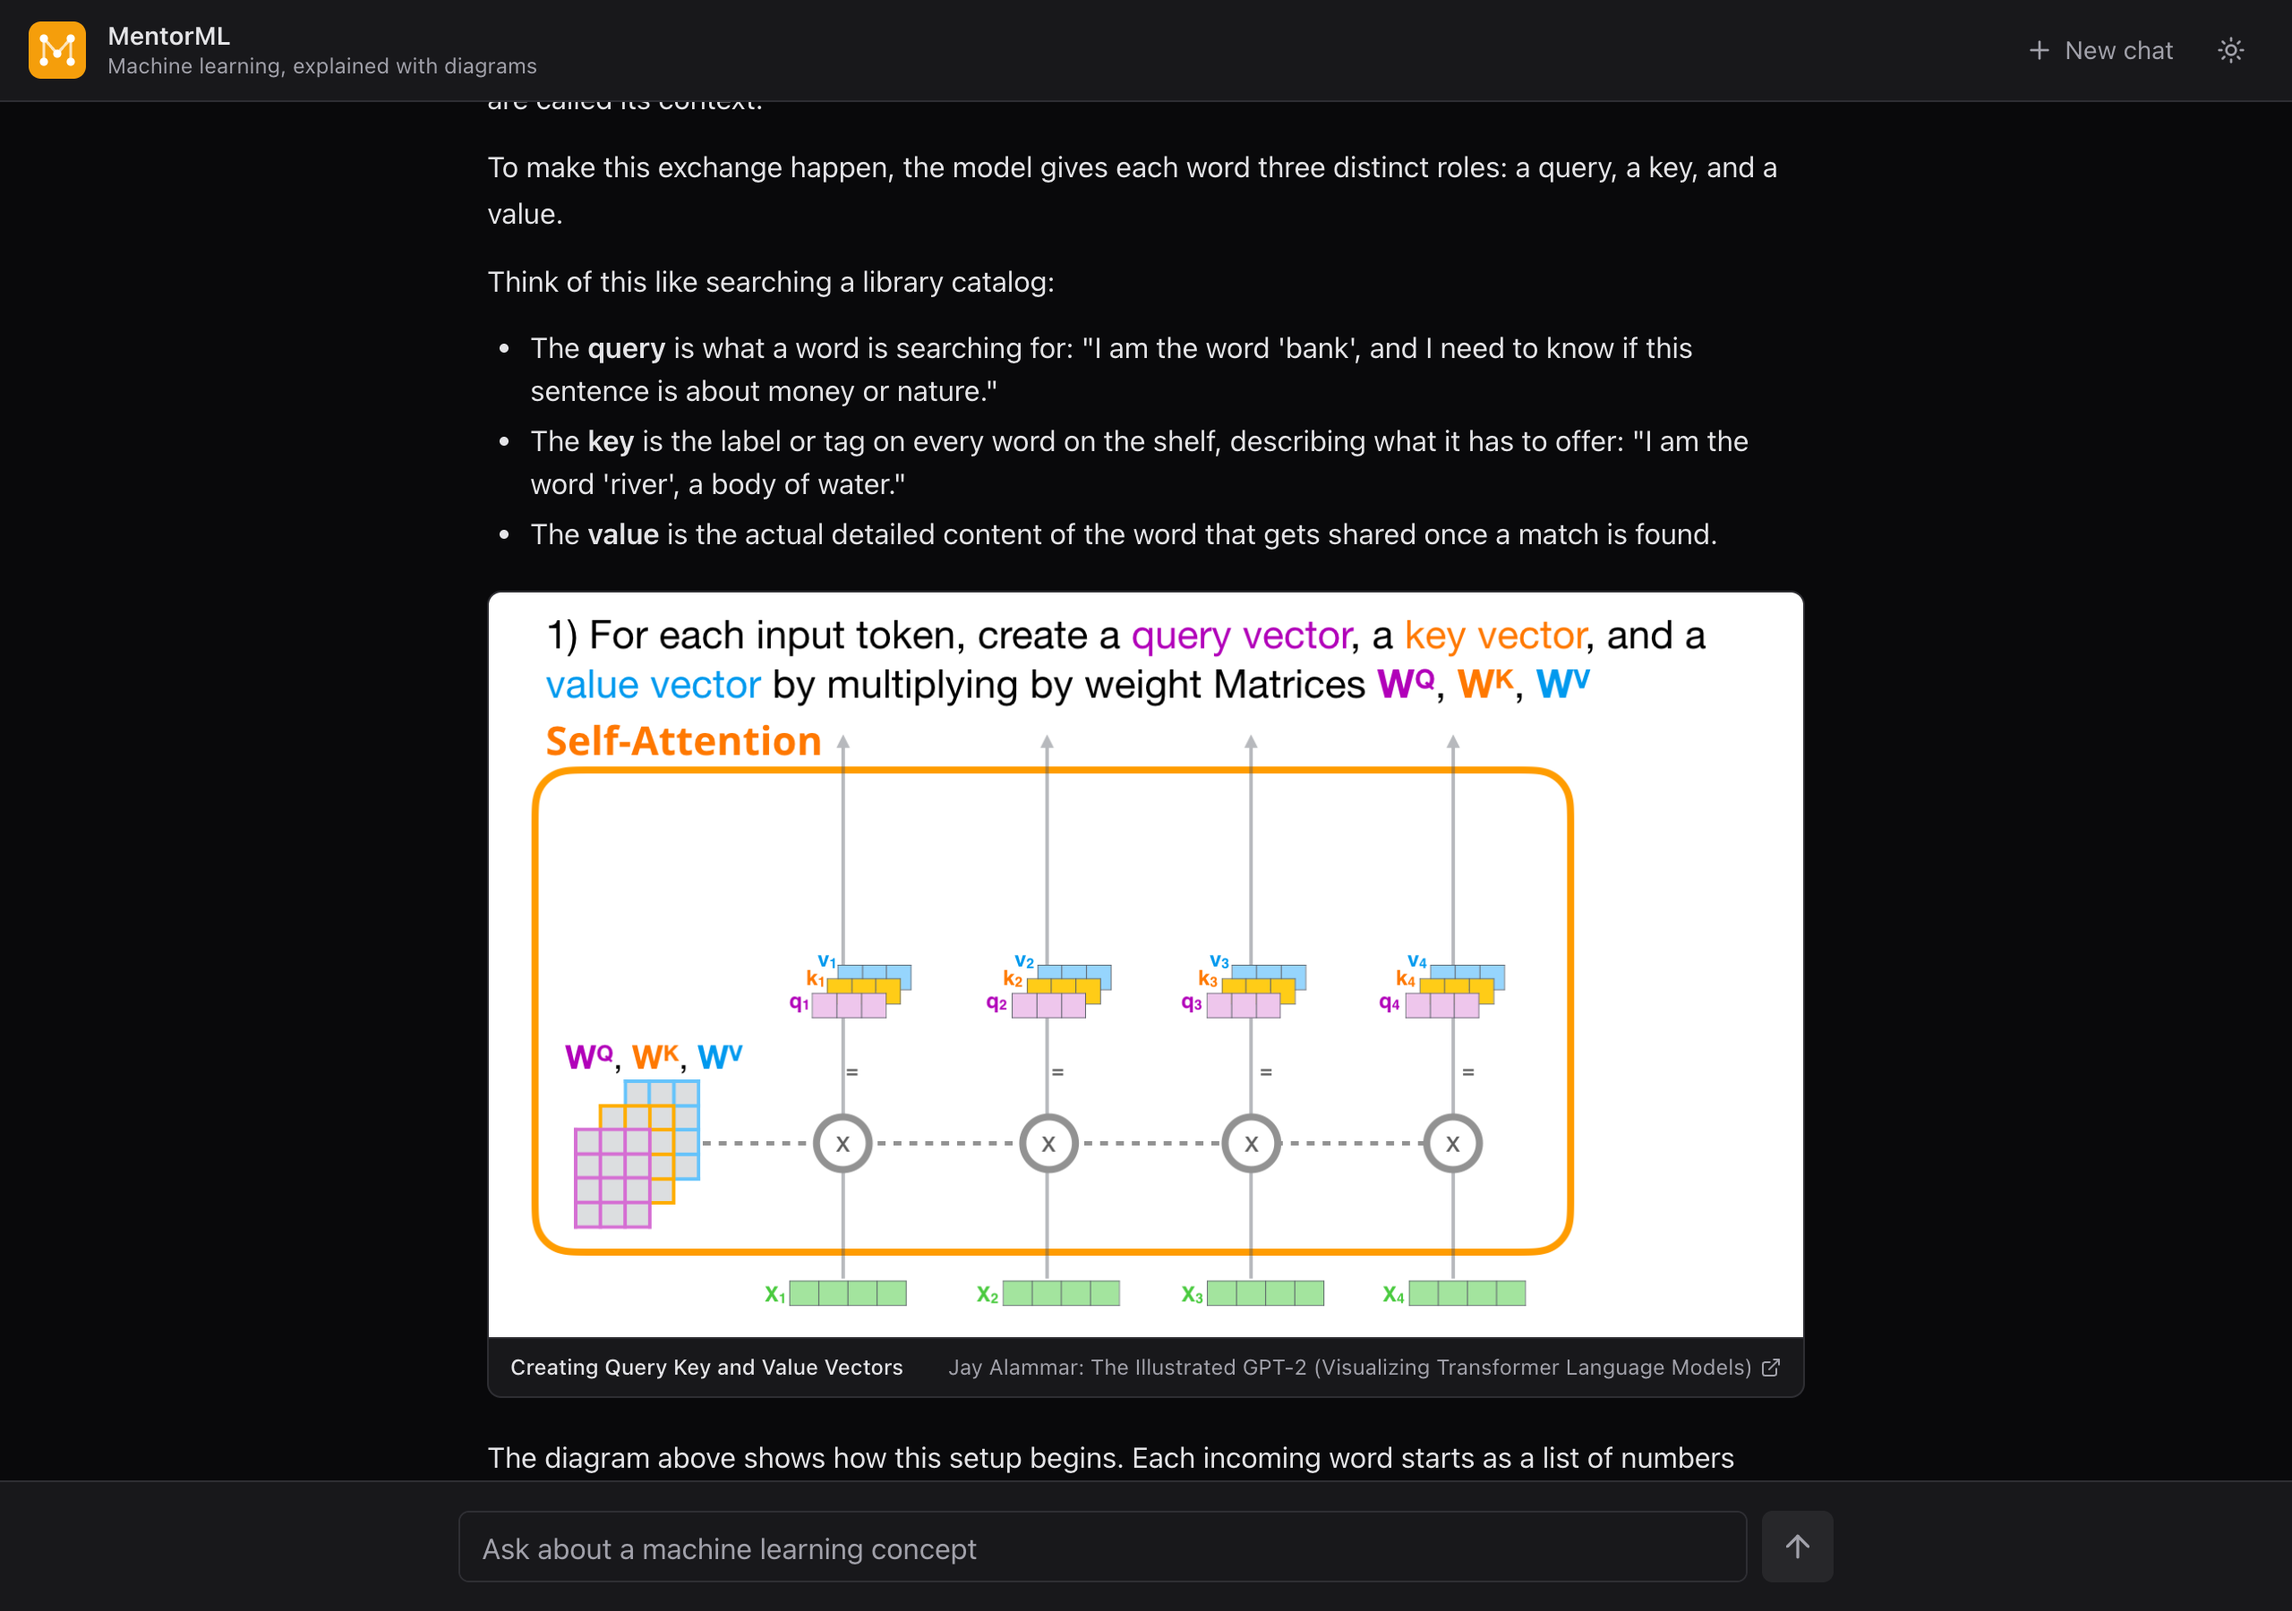
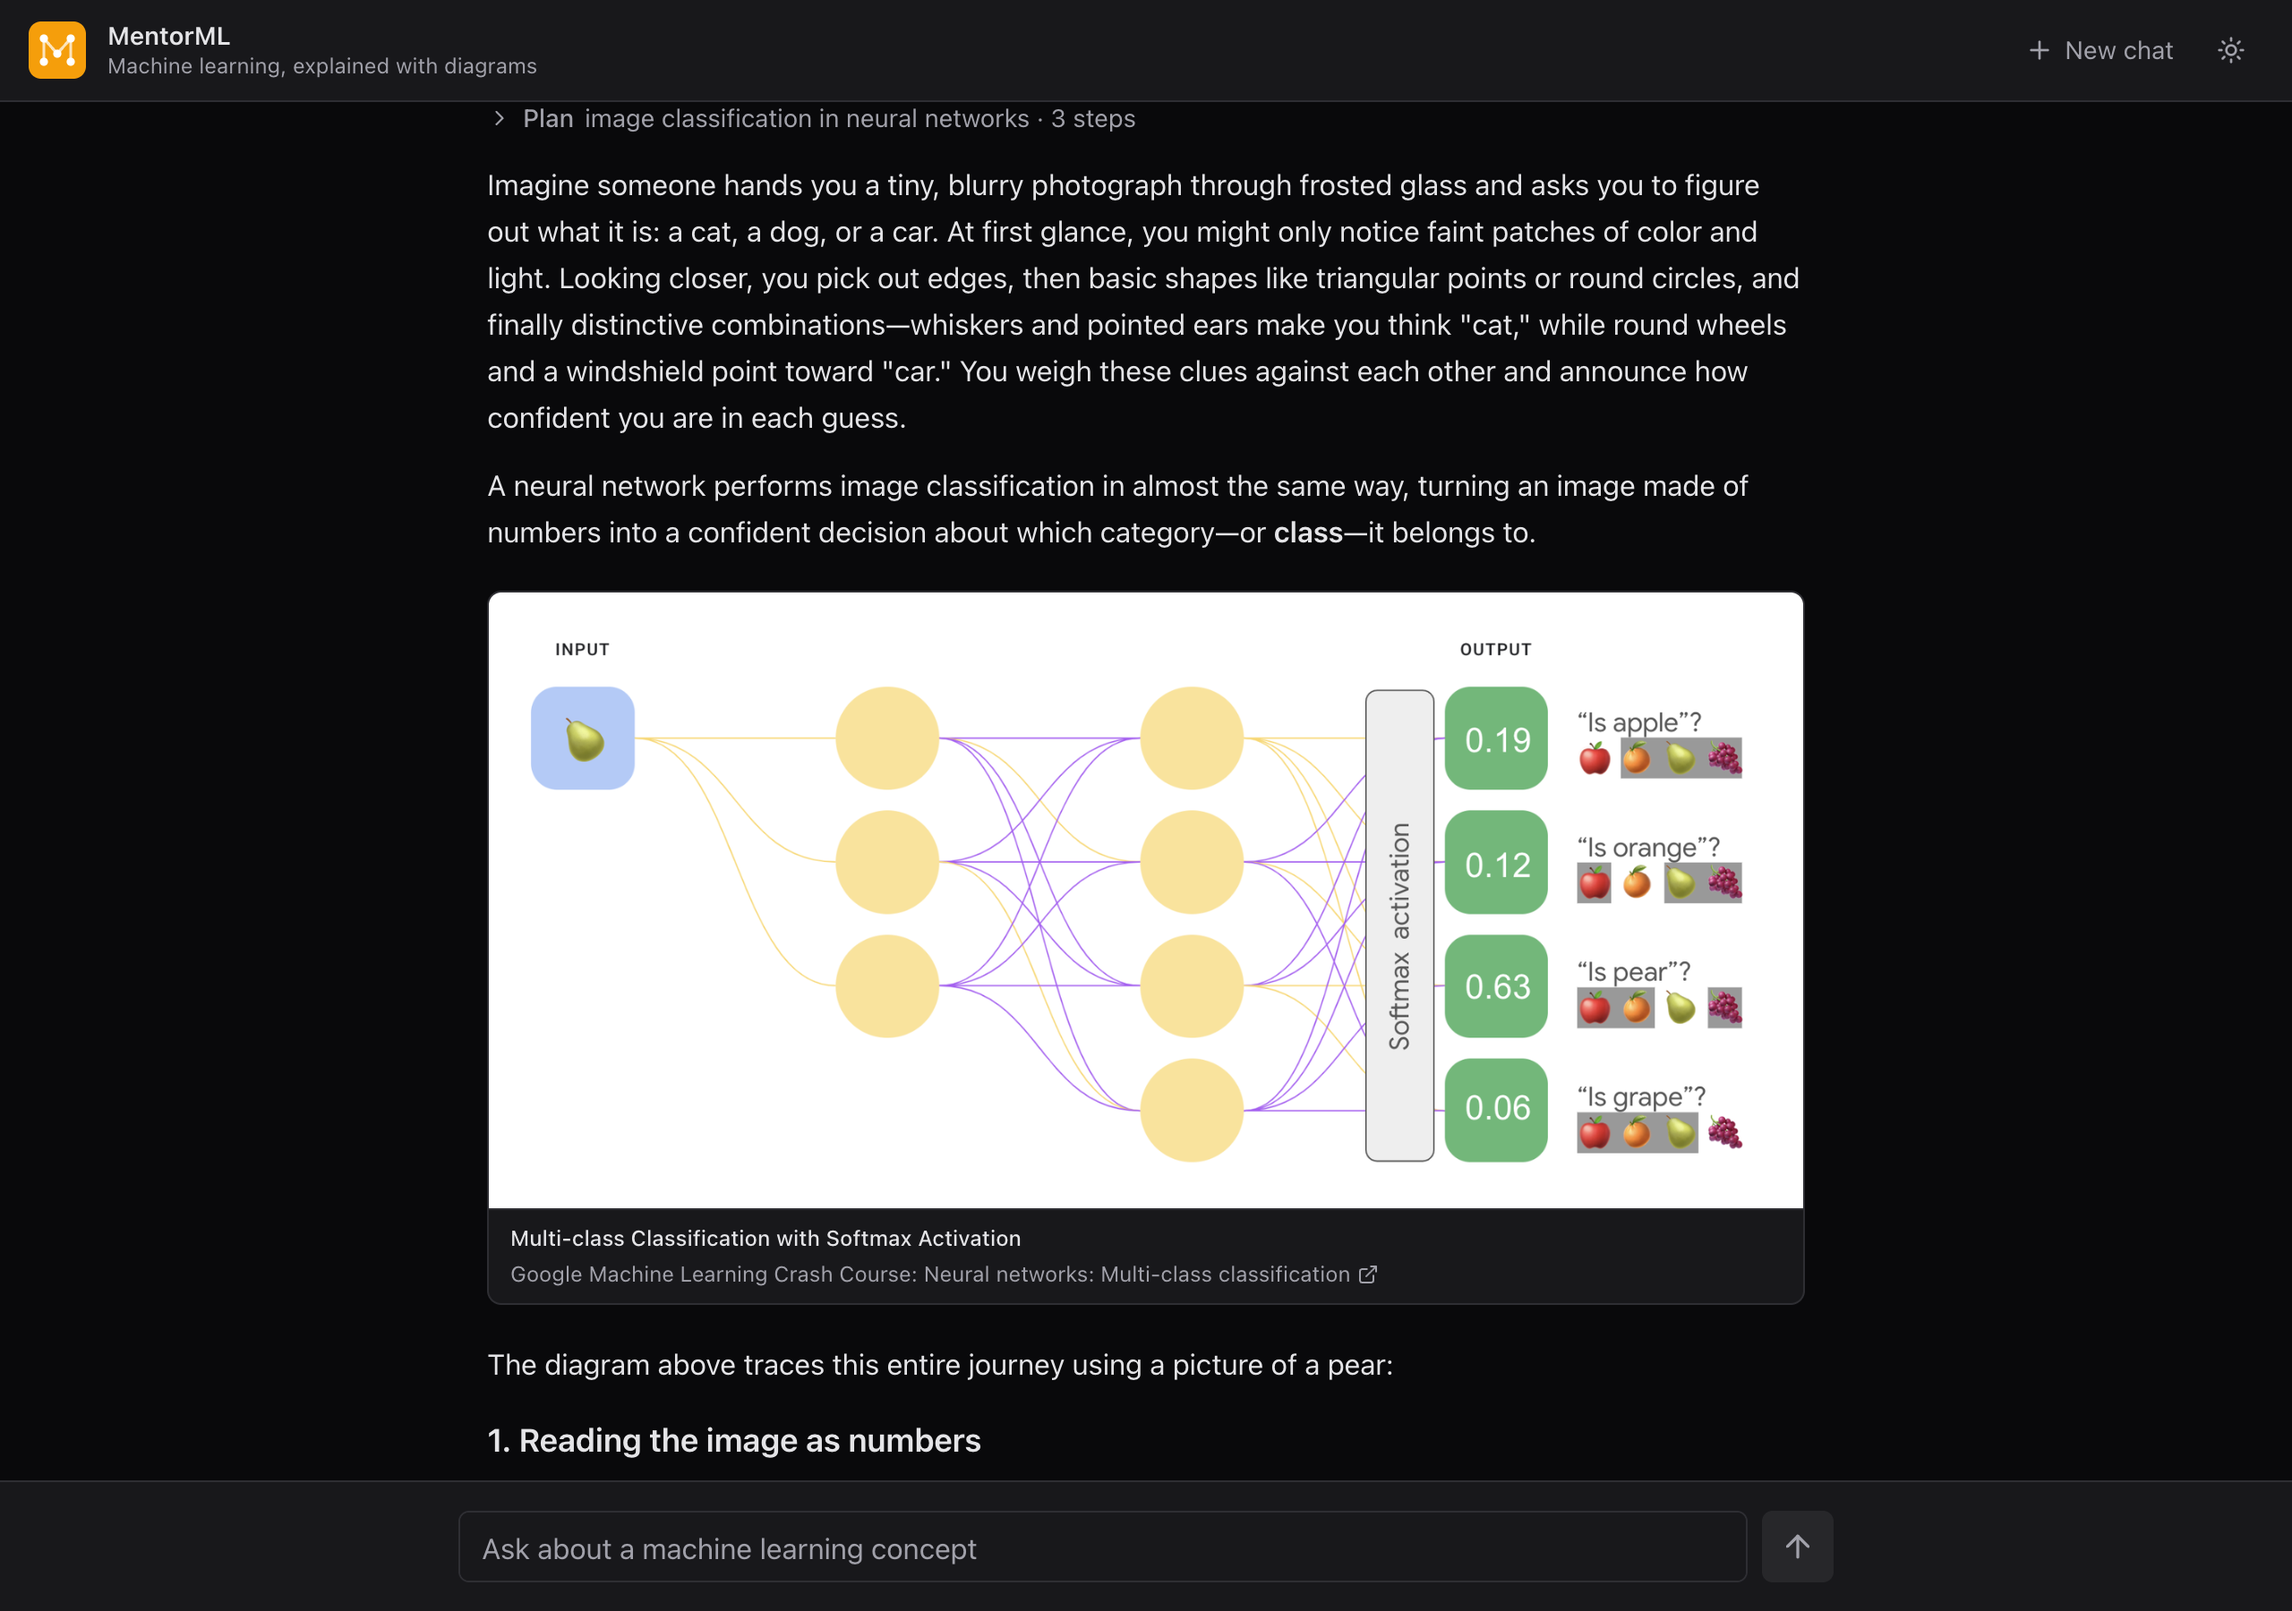
Use a cleaner diagram in the README screenshots

Changed region(s): [[0.1875, 0.3733, 0.8125, 0.9333], [0.2188, 0.0622, 0.7812, 0.3422]]

diff --git a/README.md b/README.md
@@ -4,7 +4,7 @@ A teaching assistant for AI and machine learning that explains concepts in plain
 
 <picture>
   <source media="(prefers-color-scheme: dark)" srcset="docs/screenshot-dark.png">
-  <img alt="MentorML answering &quot;How does self-attention work in a transformer?&quot;: queries, keys and values explained with a library-catalogue analogy, above a diagram from The Illustrated GPT-2" src="docs/screenshot-light.png">
+  <img alt="MentorML answering &quot;How does a neural network classify an image into one of several classes?&quot;: an analogy about identifying a blurry photograph, above a diagram of a network sorting a pear into one of four fruit classes from Google's Machine Learning Crash Course" src="docs/screenshot-light.png">
 </picture>
 
 ## Features
